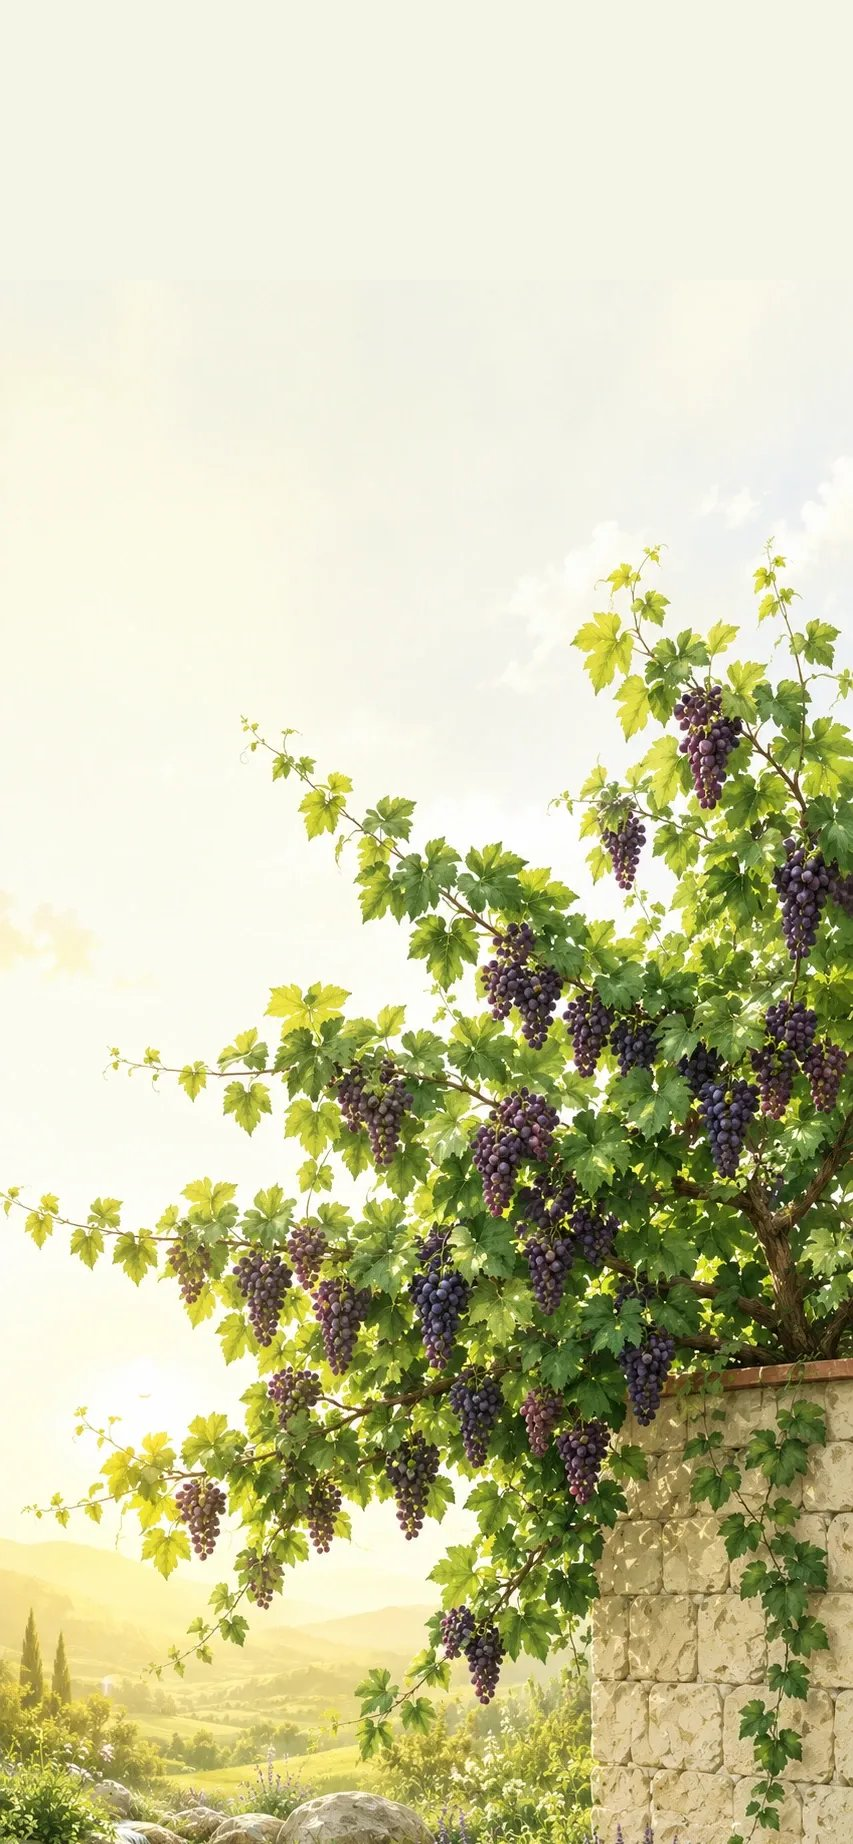
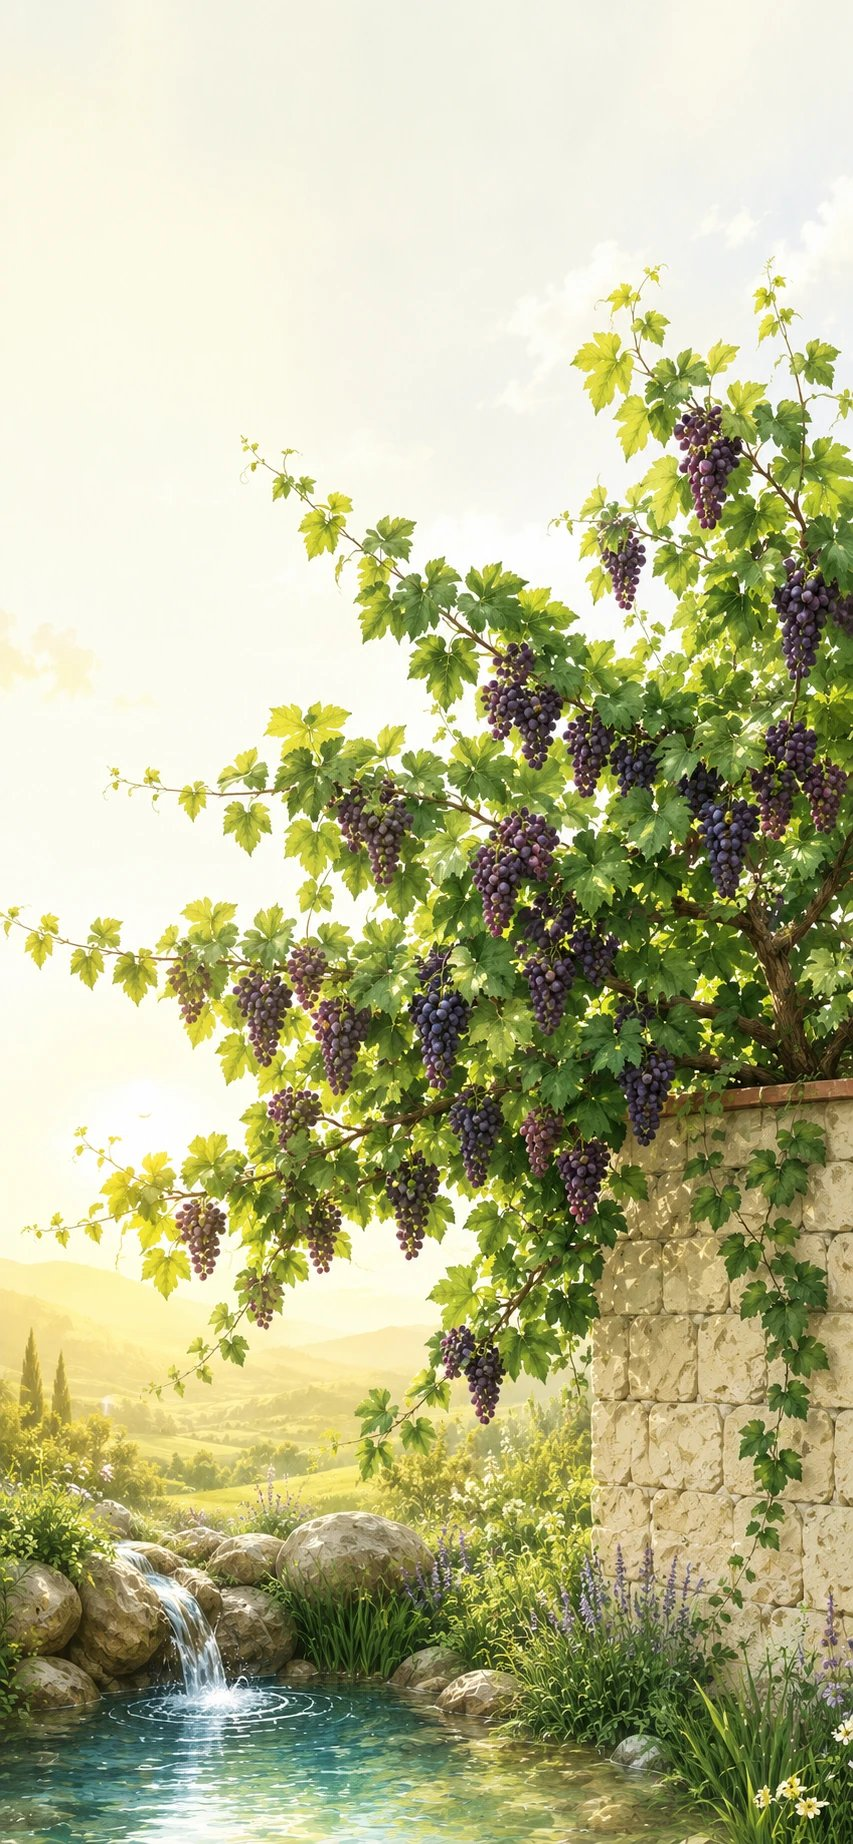
웰컴 배경 — 샘물 잘리던 것 되돌리고, 대신 글자 대비를 강하게
하늘을 늘려 문구 자리를 만들었더니 정작 표어 속 '샘'이 화면에서
잘려나갔다. 원본 그림(샘물 그대로)으로 되돌리고, 대신 글자 색을
더 짙게 하고 흰 글로우를 키워서 잎과 겹쳐도 읽히게 했다.

Claude-Session: https://claude.ai/code/session_01VDsoJVjkmq7yGfS2oWFvuq

diff --git a/src/components/WelcomeScreen.tsx b/src/components/WelcomeScreen.tsx
@@ -53,8 +53,8 @@ export function WelcomeScreen() {
 }
 
 const glow = {
-  textShadowColor: 'rgba(255,255,255,0.9)',
-  textShadowRadius: 10,
+  textShadowColor: 'rgba(255,255,255,0.95)',
+  textShadowRadius: 16,
   textShadowOffset: { width: 0, height: 1 },
 } as const;
 
@@ -84,15 +84,15 @@ const styles = StyleSheet.create({
     ...glow,
   },
   verse: {
-    fontFamily: font.medium,
+    fontFamily: font.bold,
     fontSize: 13.5,
     lineHeight: 24,
     textAlign: 'center',
-    color: '#17406E',
+    color: '#0E2647',
     marginTop: 22,
     ...glow,
   },
-  reference: { fontFamily: font.bold, fontSize: 12, color: '#5B7BA6', marginTop: 6, ...glow },
+  reference: { fontFamily: font.bold, fontSize: 12, color: '#28457A', marginTop: 6, ...glow },
   bottom: { paddingHorizontal: 24, alignItems: 'center' },
   startBtn: {
     alignSelf: 'stretch',
